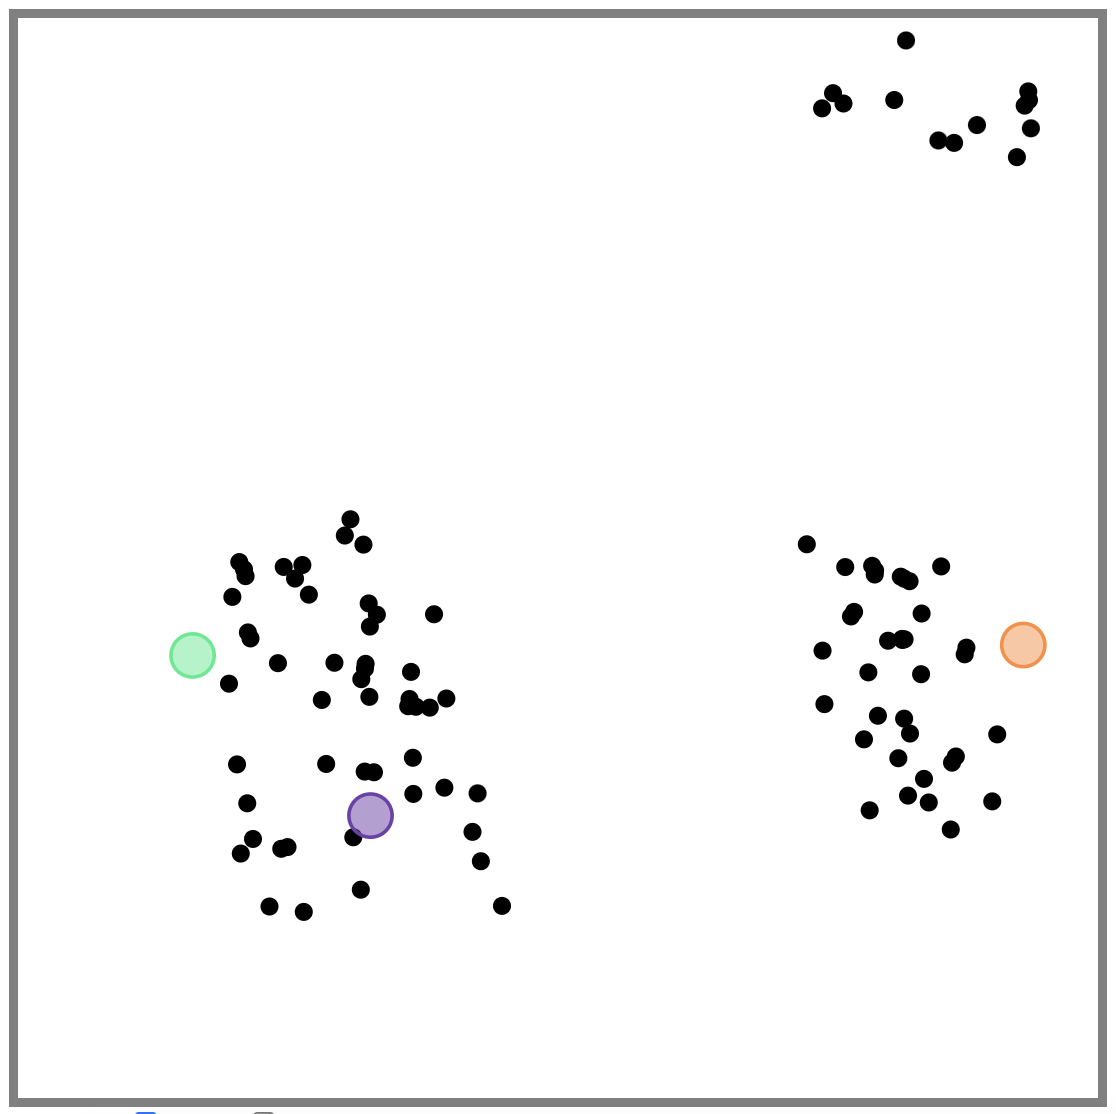
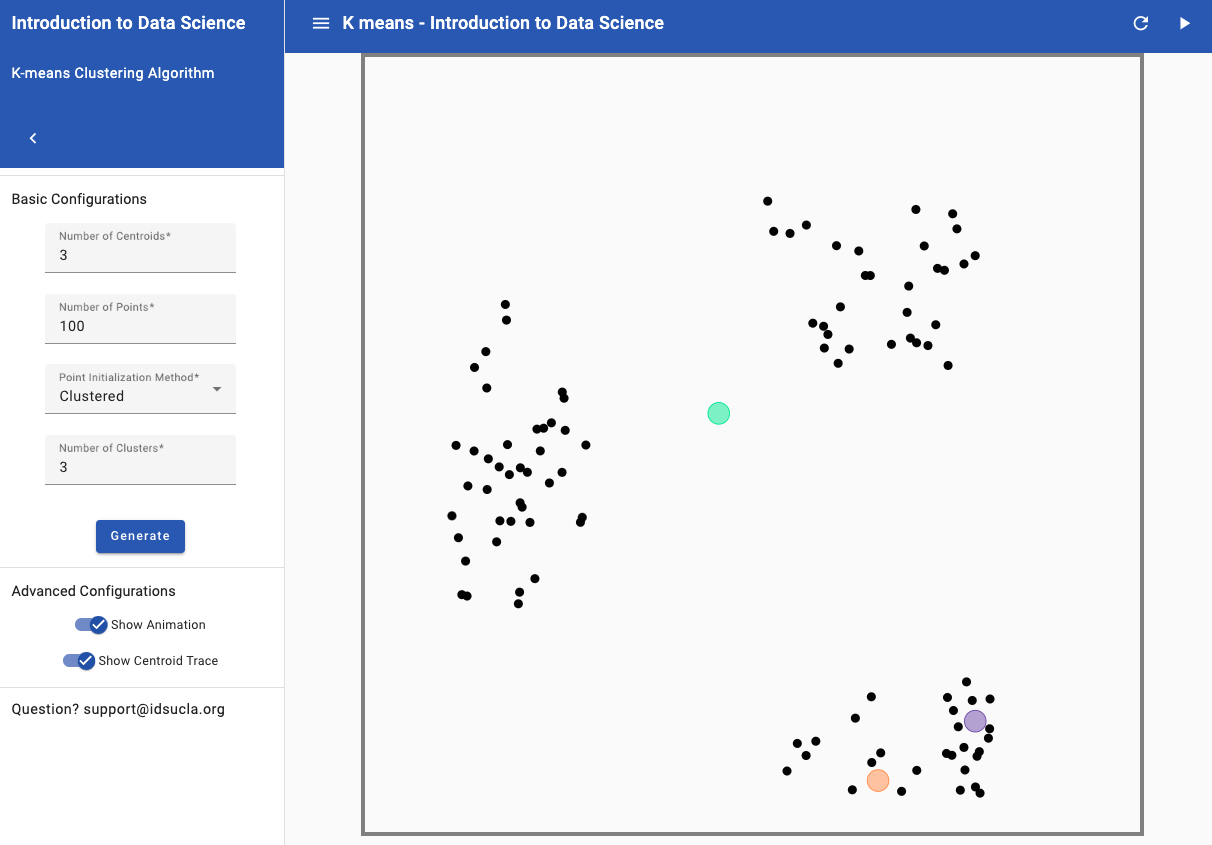
Unit 4 Lesson 18
updated images/steps for new kmeans app

diff --git a/docs/unit4/lesson18.md b/docs/unit4/lesson18.md
@@ -118,7 +118,7 @@ numerical variables and asked to find similarities. This is where clustering com
 
     <img src="../../img/appCentroids.png" />
 
-    100. Move two of the centroids so that they are close to/within one cluster. An example is shown below.
+    100. Move two of the centroids so that they are close to/within one cluster. Move the remaining centroid in between the other two clusters. An example is shown below.
 
     <img src="../../img/round0.png" width="300" height="300"/>
 
@@ -126,11 +126,11 @@ numerical variables and asked to find similarities. This is where clustering com
 
     <img src="../../img/round1.png" width="300" height="300"/>
 
-    100. While we still have three clusters, we can clearly see that our initial points have influenced the end result of those clusters. You can move the centroids to the center of the clusters to illustrate this point (see image below of correctly clustered groups).
+    100. While we still have three clusters, we can clearly see that our initial points have influenced the end result of those clusters. You can click “Restart and play again” to move the centroids to the center of the clusters and click “Next step” until no points change from the previous update to illustrate this point (see image below of correctly clustered groups).
 
     <img src="../../img/round2.png" width="300" height="300"/>
 
-    **<u>Note:</u>** You can click "Re-Initialize Centroids" and it will move your cluster centers to new positions while still using the same 100 points. You can repeat the same process as in step (c) to discover different additonal groupings, although they may not be opimized as shown in step (d).
+    **<u>Note:</u>** Clicking "Restart and play again" allows you to move your cluster centers to new positions while still using the same 100 points. You can repeat the same process as above to create different additional groupings.
 
 ###**Class Scribes:**
 One team of students will give a brief talk to discuss what they think the 3 most important topics of the day were.
